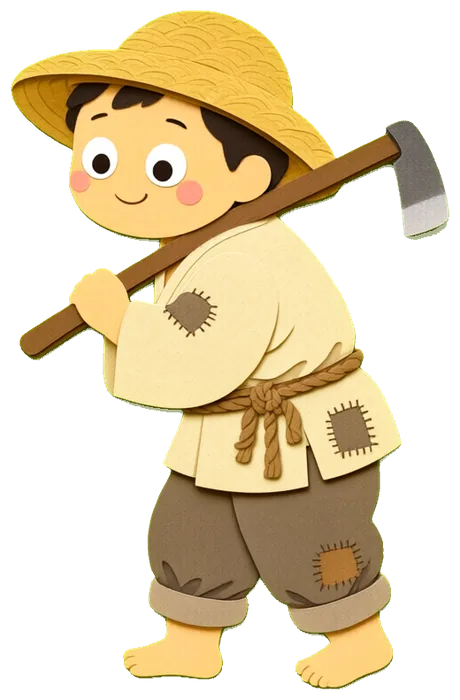
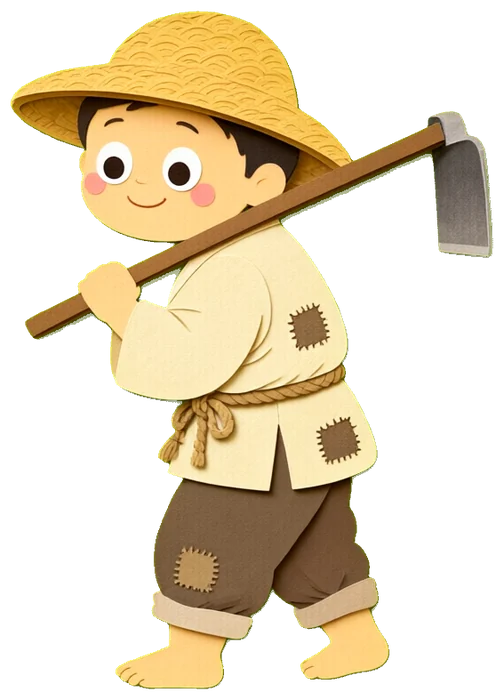
요술 항아리: 농부가 멘 괭이를 도끼 날이 아닌 납작한 쇠날이 직각인 괭이로 다시 그림
Claude-Session: https://claude.ai/code/session_01LNk5ZqxZZjA2bBcEAsTsQ1

diff --git a/tales/magic_jar/magic_jar.js b/tales/magic_jar/magic_jar.js
@@ -3,7 +3,7 @@
 (() => {
   const AS = '../../assets/v3w/';
   const GROUND = 505;
-  const ASP = { coin: .9645, farmer_amaze: .71, farmer_count: .6029, farmer_feast: .7971, farmer_hoe: .6571, farmer_pull: .6771,
+  const ASP = { coin: .9645, farmer_amaze: .71, farmer_count: .6029, farmer_feast: .7971, farmer_hoe: .72, farmer_pull: .6771,
     farmer_share: .5886, father_fall: .9856, father_fightA: .6357, father_fightB: .6443, father_peek: .7357, fwife: .5129,
     fwife_share: .5271, gold: 1.7722, hoe: 3.2864, jar: .9243, jar_cracked: 1.1785, rice: .8057, rich_gold: .6471, rich_grab: .7143,
     rich_hurry: .8071, rich_pinned: 1.2238, rich_shout: .7143, table: 1.566 };
